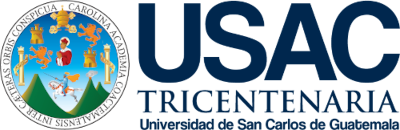
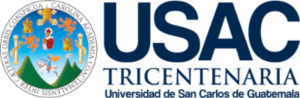
Modificación diseño de imagen en patrocinadores

diff --git a/src/Components/Panels/informationPanels.jsx b/src/Components/Panels/informationPanels.jsx
@@ -7,35 +7,41 @@ const panelsData = [
     title: 'INTRODUCCIÓN',
     description: 'El agua que nos une tiene muchas historias que contar, algunas veces de desigualdad y resistencia, otras de crisis y esperanza. Te invitamos a un recorrido transformador en el que cada tema será un portal para entenderla como derecho humano, protegerla como patrimonio común, restaurarla como solución climática y garantizarla como legado a las futuras generaciones.',
     imageUrl: '/images/introduccion.png', // Reemplaza con la ruta real de la imagen
-    subTexto:'Convierte este conocimiento en acción transformadora.'
+    subTexto:'¡Convierte este conocimiento en acción transformadora!'
   },
   {
     title: 'AGUA EN MOVIMIENTO',
-    description: "Descubre cómo ha evolucionado el uso del agua para el consumo humano. Además",
+    description: "El agua se mantiene en constante movimiento cíclico, fluye, se transforma y regresa, conectando océanos, ríos, nubes y vidas. Da forma a nuestro planeta y a nuestra historia, desde las antiguas civilizaciones hasta las modernas infraestructuras, el agua ha impulsado el desarrollo humano.",
     imageUrl: '/images/modulo1.png', // Reemplaza con la ruta real de la imagen
-    subTexto:'¡Sigue el recorrido de una gota de agua en todo su ciclo!'
+    subTexto:'¡Descubramos el ciclo del agua y reconozcamos su importancia histórica!'
   },
   {
     title: 'AGUA PARA TODAS LAS PERSONAS',
-    description: 'El acceso al agua no es igual para todas las personas, las mujeres y niñas en comunidades rurales son las más afectadas. Impacta en su salud, su educación y sus oportunidades de desarrollo.',
+    description: 'El acceso al agua no es igual para todas las personas, las mujeres y niñas en comunidades rurales son las más afectadas, impacta en su salud, su educación y sus oportunidades de desarrollo.',
     imageUrl: '/images/modulo2.png', // Reemplaza con la ruta real de la imagen
-    subTexto:'Explora estas diferencias y aprecia el trabajo de las mujeres en la gestión del agua.'
+    subTexto:'¡Exploremos estas diferencias y apreciemos el trabajo de las mujeres en la gestión del agua!'
   },
   {
     title: 'AGUA LIMPIA',
-    description: 'El agua insalubre, el saneamiento inadecuado y la falta de hiegiene desempeñan un papel importante en pa propagación de enfermedades. Debemos proteger nuestras fuentes hídricas, invertir en sistemas de purificación sostenible y educar sobre su uso responsable.',
+    description: 'El agua insalubre, el saneamiento inadecuado y la falta de higiene desempeñan un papel importante en la propagación de enfermedades. Debemos proteger nuestras fuentes hídricas, invertir en sistemas de purificación sostenibles y educar sobre su uso responsable.',
     imageUrl: '/images/modulo3.png', // Reemplaza con la ruta real de la imagen
-    subTexto:'Veamos algunas ideas para tener agua limpia.'
+    subTexto:'¡Veamos algunas ideas para tener agua limpia!'
   },
   {
     title: 'AGUA PARA SIEMPRE',
-    description: 'Es imposible concebir la vida, como la conocemos, sin agua. Identifiquemos juntos los múltiples usos del agua y veamos cómo garantizar este bien para las generaciones presentes y futuras a pesar de las presiones del entorno.',
+    description: 'Es imposible concebir la vida, como la conocemos, sin agua.  El agua no es un recurso infinito, pero puede ser sostenible si cambiamos nuestra relación con ella.',
     imageUrl: '/images/modulo4.png', // Reemplaza con la ruta real de la imagen
-    subTexto:''
+    subTexto:' ¡Identifiquemos los múltiples usos del agua y veamos cómo garantizar este bien para las generaciones presentes y futuras a pesar de las presiones del entorno!'
+  },
+  {
+    title: 'EL PLANETA TIENE SED',
+    description: 'Sequías más largas, inundaciones más brutales y nieves que desaparecen son gritos de la Tierra pidiendo ayuda. La crisis climática impacta en la seguridad hídrica, amenaza la biodiversidad y compromete el desarrollo sostenible.',
+    imageUrl: '/images/modulo9.png', // Reemplaza con la ruta real de la imagen
+    subTexto:'¡Reconoce estos impactos adversos para estar mejor adaptados a estos cambios!'
   },
   {
     title: 'RECUPEREMOS EL AGUA',
-    description: 'Cada gota cuenta. El tratamiento de aguas residuales es una responsabilidad con nuestro planeta y con nuestros hijos. Al reutilizar y purificar el agua, cuidamos la salud, el medio ambiente y garantizamos este recurso para las proximas generaciones.',
+    description: 'Cada gota cuenta. El tratamiento de aguas residuales es una responsabilidad con nuestro planeta y con nuestros hijos. Al reutilizar y purificar el agua, cuidamos la salud, el medio ambiente y garantizamos este recurso para las próximas generaciones.',
     imageUrl: '/images/modulo6.png', // Reemplaza con la ruta real de la imagen
     subTexto:'¡Actuemos hoy por un mañana sostenible!'
   },
@@ -43,25 +49,19 @@ const panelsData = [
     title: 'EL AGUA COMO DERECHO UNIVERSAL',
     description: 'El acceso al agua no es un privilegio, es un derecho universal. Garantizar el acceso equitativo, al agua potable y saneamiento es un compromiso con la vida, la dignidad humana, la justicia ambiental y el desarrollo sostennible.',
     imageUrl: '/images/modulo7.png', // Reemplaza con la ruta real de la imagen
-    subTexto:' Aprende sobre este tema en esta sección.'
+    subTexto:'¡Aprende sobre este tema en esta sección! '
   },
   {
     title: 'EL AGUA COMO UN BIEN COMÚN',
     description: 'El agua nos pertenece a todos y su gestión debe ser responsable y equitativa. Cuidarla y compartirla no es opcional, es un deber colectivo, porque de ella depende nuestra salud, nuestros ecosistemas y el futuro de nuestras comunidades.',
     imageUrl: '/images/modulo8.png', // Reemplaza con la ruta real de la imagen
-    subTexto:'Descubre aquí la importancia de la acción colectiva.'
+    subTexto:'¡Descubre aquí la importancia de la acción colectiva!'
   },
   {
     title: 'EL FUTURO DEL AGUA',
-    description: 'Terminamos el recorrido transformándonos en embajadores del agua para protegerla como derecho humano, bien común y solución climática, educando, innovando y actuando desde nuestros espacios. El futuro del agua no se escribe solo, lo contruimos juntos.',
+    description: 'Terminamos el recorrido transformándonos en embajadores del agua para protegerla como derecho humano, bien común y solución climática, educando, innovando, investigando y actuando desde nuestros espacios.',
     imageUrl: '/images/modulo5.png', // Reemplaza con la ruta real de la imagen
-    subTexto:'Aceptamos la responsabilidad y el desafio de ser voz y manos para este legado azul.'
-  },
-  {
-    title: 'EL PLANETA TIENE SED',
-    description: 'La crisis climática impacta en la seguridad hídrica, amenaza la biodiversidad y compromete el desarrollo sostenible. Reconoce estos impactos adversos para estar mejor adaptados a estos cambios.',
-    imageUrl: '/images/modulo9.png', // Reemplaza con la ruta real de la imagen
-    subTexto:''
+    subTexto:' ¡El futuro del agua no se escribe solo, lo construimos juntos! ¡Aceptemos la responsabilidad y el desafío de ser voz y manos para este legado azul!'
   },
   // Continúa añadiendo las rutas de las imágenes para los demás paneles
 ];

diff --git a/src/App.jsx b/src/App.jsx
@@ -49,7 +49,7 @@ function App() {
         <Box sx={{display:'flex', flexWrap: 'wrap',  justifyContent: { xs: 'center', md: 'space-around' }, alignItems: { xs: 'none', md: 'center' }, marginBottom: '40px'}}>
           <img 
             width="200px"
-            style={{margin: '30px 0px 30px 0px'}} 
+            style={{margin: '30px 20px 30px 0px'}} 
             height="auto"
             className="patroImg" 
             src={'/images/usac.png'} 
@@ -59,9 +59,9 @@ function App() {
             alt='usac' 
           />
           <img 
-            width="200px"
-            style={{margin: '30px 0px 30px 0px'}} 
-            height="auto"
+            width="130px"
+            style={{margin: '30px 20px 30px 0px'}} 
+            height="150px"
             className="patroImg" 
             src={'images/upnfm.png'}
             onClick={() =>
@@ -72,7 +72,7 @@ function App() {
           
           <img 
             width="200px"
-            style={{margin: '30px 0px 30px 0px'}} 
+            style={{margin: '30px 20px 30px 0px'}} 
             height="auto"
             className="patroImg" 
             src={'images/ucr.png'} 
@@ -84,7 +84,7 @@ function App() {
 
             <img 
             width="200px"
-            style={{margin: '30px 0px 30px 0px'}} 
+            style={{margin: '30px 20px 30px 0px'}} 
             height="auto"
             className="patroImg" 
             src={'images/tecm.png'} 
@@ -93,19 +93,11 @@ function App() {
             )}
             alt='tecm' 
           />
-
-          <img 
-            width="220px" 
-            height="auto"
-            className="patroImg" 
-            src={'images/idrc.png'} 
-            onClick={() =>
-            (window.open('https://idrc-crdi.ca/en', '_blank')
-            )}
-            alt='idrc' />
+            <div style={{display:'flex', flexWrap: 'wrap', justifyContent:'center', alignItems:'center'}} >
             
             <img 
             width="220px" 
+            style={{margin: '30px 20px 30px 0px'}} 
             height="auto"
             className="patroImg" 
             src={'images/csuca.png'} 
@@ -113,8 +105,21 @@ function App() {
             (window.open('https://seduca.csuca.org/index.php/miembros', '_blank')
             )}
             alt='csuca' />
+
             <img 
             width="220px" 
+            style={{margin: '30px 20px 30px 0px'}} 
+            height="auto"
+            className="patroImg" 
+            src={'images/idrc.png'} 
+            onClick={() =>
+            (window.open('https://idrc-crdi.ca/en', '_blank')
+            )}
+            alt='idrc' />
+
+            <img 
+            width="220px" 
+            style={{margin: '30px 20px 30px 0px'}} 
             height="auto"
             className="patroImg" 
             src={'images/ctcap.png'} 
@@ -125,6 +130,7 @@ function App() {
 
             <img 
             width="220px" 
+            style={{margin: '30px 20px 30px 0px'}} 
             height="auto"
             className="patroImg" 
             src={'images/SICA.png'} 
@@ -132,6 +138,7 @@ function App() {
             (window.open('https://www.sica.int/', '_blank')
             )}
             alt='SICA' />
+            </div>
         </Box> 
       </Container>
       <Footer/>

diff --git a/src/App.css b/src/App.css
@@ -112,11 +112,4 @@ font-size: .8em;
 }
 }
 
-@media (min-width: 768px) and (max-width: 1000px) {
-  .patroImg{
-    width: 170px;
-    height: auto;
-  }
-}
-
 
